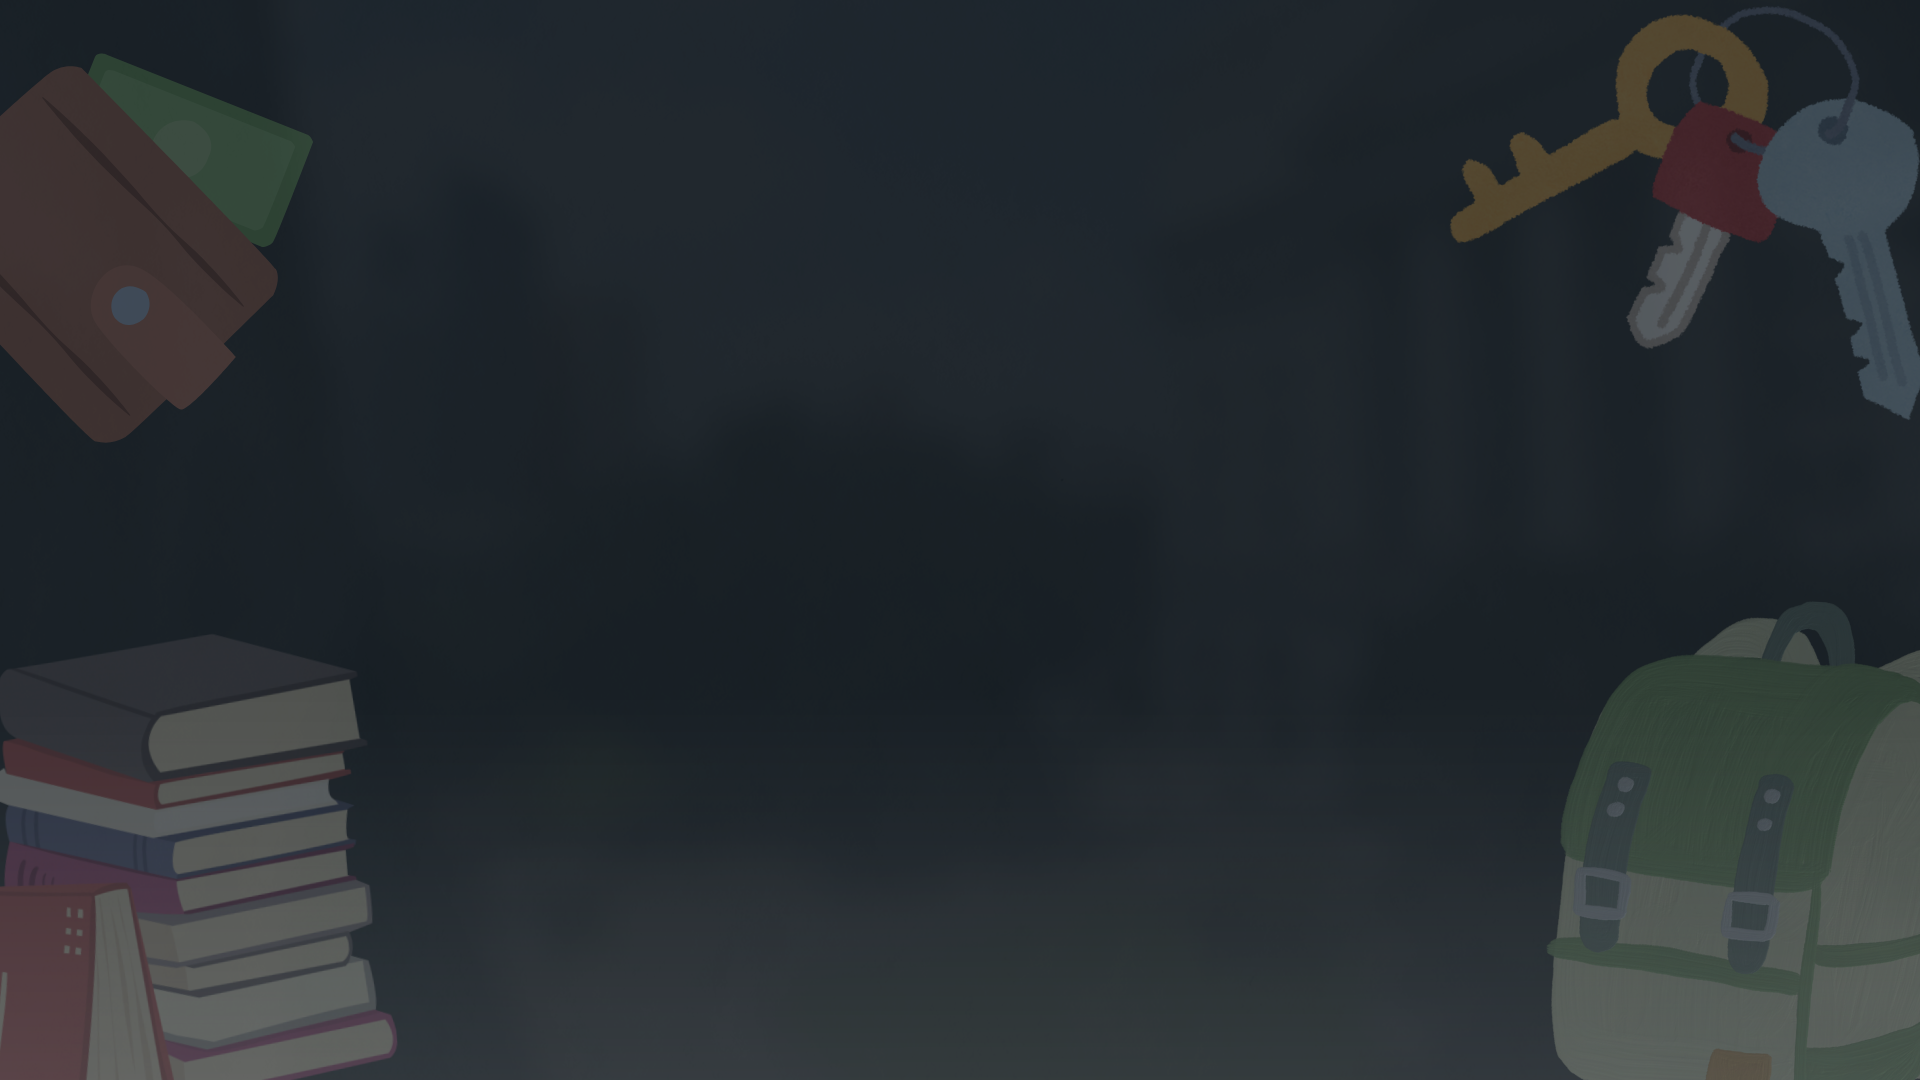
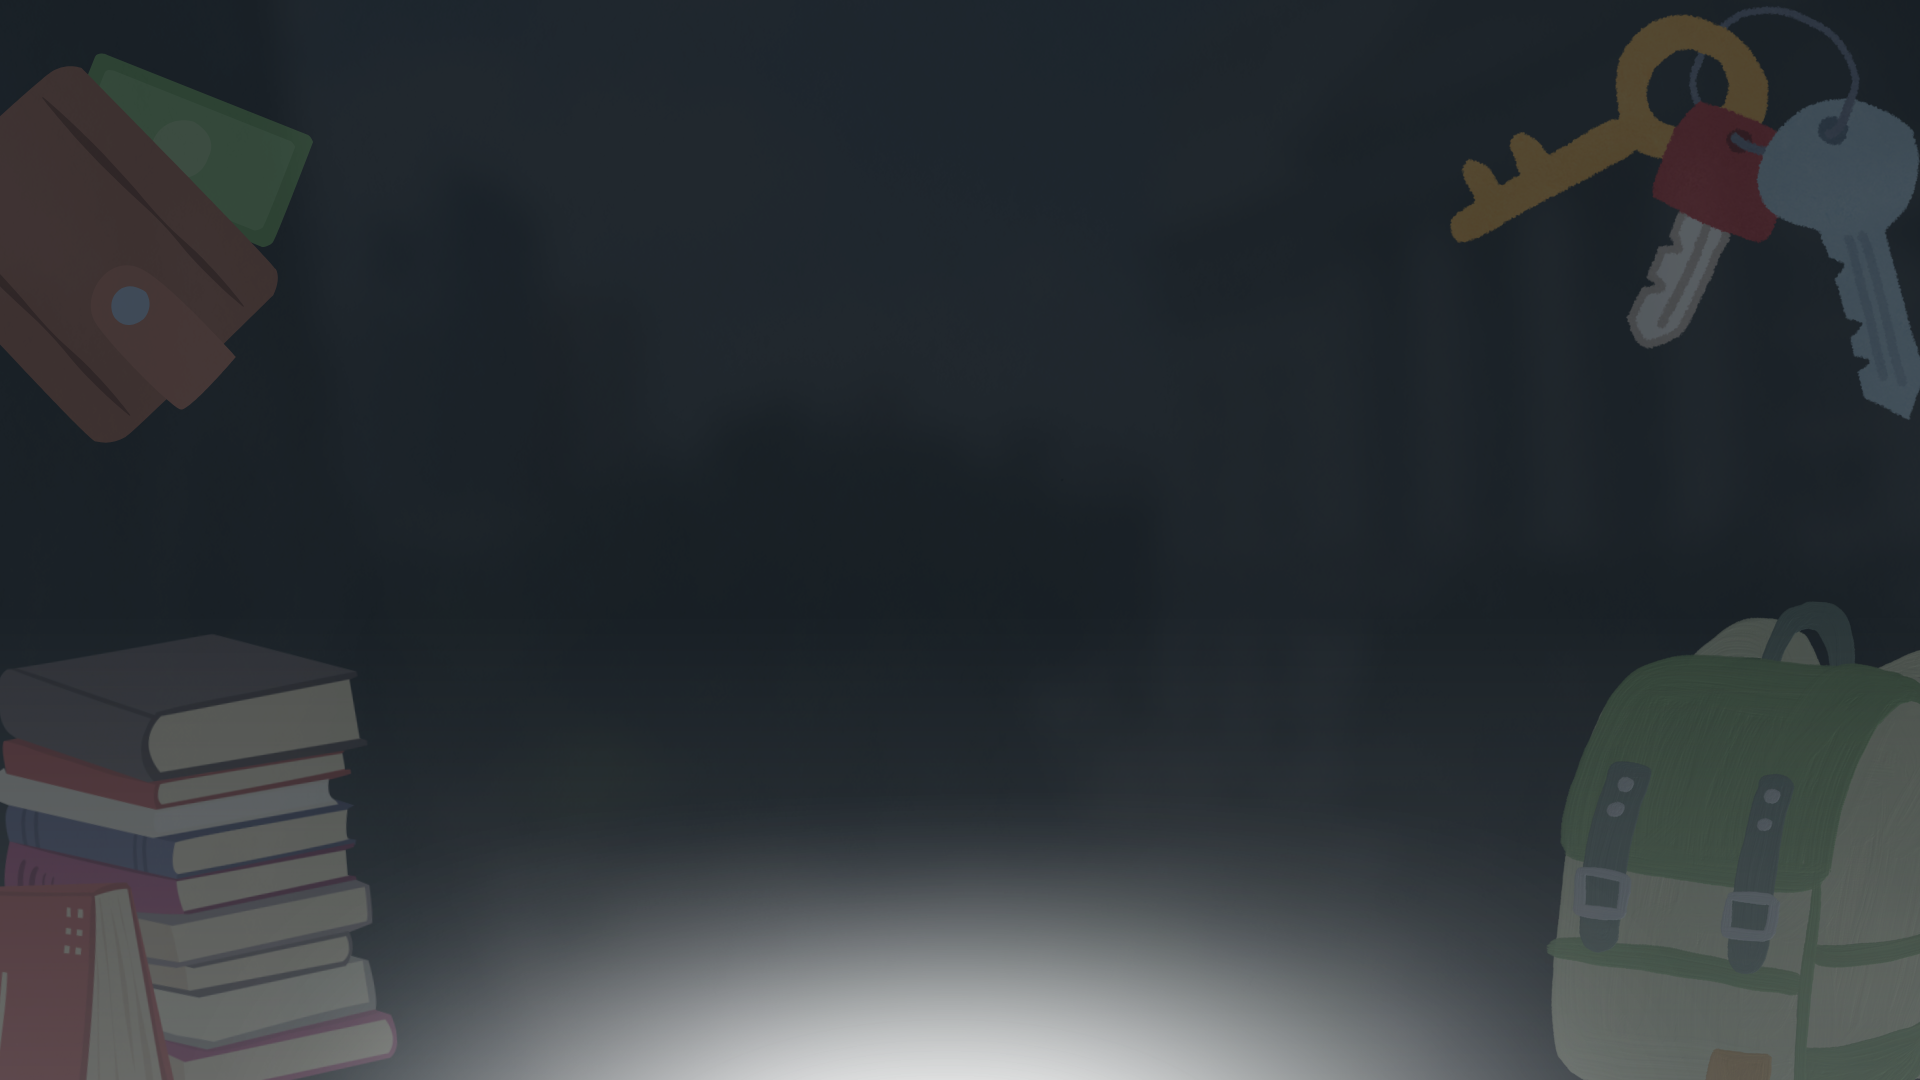
updated mobile view to a few pages

Changed region(s): [[0.1562, 0.7944, 0.8125, 1.0]]

diff --git a/styles/student_item-view.css b/styles/student_item-view.css
@@ -8,6 +8,7 @@
 }
 
 .itemview-sidebar {
+    position: fixed;
     width: 20%;
     padding: var(--space-medium);
     display: flex;
@@ -18,11 +19,11 @@
 .report-btn {
     width: 100%;
     background-color: var(--color-primary);
-    color: white;
+    color: var(--color-complement);
     border: none;
     border-radius: var(--radius-medium);
     padding: var(--space-small);
-    font-size: var(--text-body);
+    font-size: var(--text-btn);
     cursor: pointer;
     transition: 0.2s ease;
 }
@@ -40,6 +41,7 @@
 
 .itemview-main {
     width: 80%;
+    margin-left: 20%; 
     padding: var(--space-medium);
     display: flex;
     flex-direction: column;
@@ -65,6 +67,7 @@
     padding: var(--space-small);
     border-radius: var(--radius-small);
     border: 1px solid var(--color-primary-dark);
+    background-color: var(--color-complement);
 }
 
 .item-list {
@@ -95,4 +98,51 @@
     width: 30px;
     height: 30px;
     border-radius: 50%;
+}
+
+@media (max-width: 768px) {
+    .itemview-sidebar {
+        position: fixed;
+        
+        z-index: 8;
+    }
+
+    .itemview-main {
+        width: 100%;
+        margin-top: 200px;
+        margin-left: 0;
+    }
+
+    .itemview-controls {
+        position: fixed;
+        width: 93%;
+        z-index: 8;
+    }
+
+    .item-list {
+        margin-top: 100px;
+    }
+
+    .itemview-wrapper {
+        flex-direction: column;
+        padding-top: 0;
+    }
+
+    .itemview-sidebar,
+    .itemview-main {
+        width: 100%;
+    }
+
+    .itemview-sidebar {
+        flex-direction: row;
+
+    }
+    .itemview-controls {
+        display: grid;
+        grid-template-columns: 1fr 1fr;
+    }
+
+    .itemview-controls input[type="text"] {
+        grid-column: 1 / -1;
+    }
 }

diff --git a/student_about.html b/student_about.html
@@ -152,18 +152,19 @@
     <!-- MISSION / VISION -->
     <section class="mission-vision">
         <div class="mission-box">
-            <h2>Mission Statement</h2>
+            <h2>Mission</h2>
             <p>
-                Lorem ipsum dolor sit amet, consectetur
-                adipiscing elit.
+                To provide a secure and user-friendly platform that streamlines lost-and-found processes,
+                empowers students and staff to work together, and ensures that misplaced belongings can be
+                reported, tracked, and returned efficiently.
             </p>
         </div>
 
         <div class="vision-box">
-            <h2>Vision Statement</h2>
+            <h2>Vision</h2>
             <p>
-                Lorem ipsum dolor sit amet, consectetur
-                adipiscing elit.
+                To become the trusted digital bridge that reconnects people with their belongings while
+                fostering a culture of honesty, responsibility, and cooperation within the DLSU community.
             </p>
         </div>
     </section>

diff --git a/styles/global.css b/styles/global.css
@@ -11,6 +11,7 @@
     --color-complement: #ffffff;
     --color-navbar: #f9f7d2;
     --color-navbar-hover: #d4d2aa;
+    --color-required: #ffe08a;
 
     /***** Typography *****/
     --font-base: "DM Sans", sans-serif;
@@ -68,6 +69,7 @@
     --color-navbar: #080e14;
     --color-navbar-hover: #101b27;
     --color-complement: #000000;
+    --color-required: #8d732c;
 
     /**************** BACKGROUND IMAGES (DARK MODE) ****************/
     --BACKGROUND-login: url('BACKGROUNDS/LoginDark.png');
@@ -198,4 +200,15 @@ footer {
         background-color: color-mix(in srgb, color-mix(in srgb, #808080, 50% var(--color-primary-dark)) 20%, transparent);
         margin-bottom: var(--space-tiny);
     }
+}
+
+/* for input boxes */
+input[type="text"], .input-box, textarea {
+    background-color: var(--color-complement);
+}
+
+input[type="text"]::placeholder, 
+input.input-box::placeholder, 
+.input-box input::placeholder {
+    color: color-mix(in srgb, var(--color-primary) 60%, transparent);
 }

diff --git a/student_item-view.html b/student_item-view.html
@@ -105,7 +105,7 @@
     <div class="itemview-wrapper">
         <aside class="itemview-sidebar">
             <button class="report-btn" onclick="location.href='student_report-item.html'">
-                REPORT YOUR LOST ITEM
+                Report Your Lost Item
             </button>
 
             <div class="stats-box">
@@ -133,6 +133,16 @@
             </div>
 
             <div class="item-list">
+                <a href="students_claim-form.html" class="item-card"></a>
+                <a href="students_claim-form.html" class="item-card"></a>
+                <a href="students_claim-form.html" class="item-card"></a>
+                <a href="students_claim-form.html" class="item-card"></a>
+                <a href="students_claim-form.html" class="item-card"></a>
+                <a href="students_claim-form.html" class="item-card"></a>
+                <a href="students_claim-form.html" class="item-card"></a>
+                <a href="students_claim-form.html" class="item-card"></a>
+                <a href="students_claim-form.html" class="item-card"></a>
+                <a href="students_claim-form.html" class="item-card"></a>
                 <a href="students_claim-form.html" class="item-card"></a>
                 <a href="students_claim-form.html" class="item-card"></a>
                 <a href="students_claim-form.html" class="item-card"></a>

diff --git a/styles/student_report-item.css b/styles/student_report-item.css
@@ -8,7 +8,7 @@
 
 .form-title {
     text-align: left;
-    margin-bottom: var(--space-large);
+    margin-bottom: var(--space-medium);
     font-size: var(--text-btn);
     font-weight: 800;
 }
@@ -40,7 +40,7 @@
 }
 
 .required {
-    background-color: #ffe08a;
+    background-color: var(--color-required);
     padding: 2px 6px;
     border-radius: 6px;
     font-size: 0.75rem;
@@ -89,7 +89,7 @@
     width: 100%;
 
     background-color: var(--color-primary);
-    color: white;
+    color: var(--color-complement);
 
     border: none;
     border-radius: var(--radius-medium);
@@ -107,7 +107,6 @@
 
 
 @media(max-width: 900px) {
-
     .surrender-form {
         grid-template-columns: 1fr;
     }

diff --git a/styles/student_surrender-form.css b/styles/student_surrender-form.css
@@ -8,7 +8,7 @@
 
 .form-title {
     text-align: left;
-    margin-bottom: var(--space-large);
+   margin-bottom: var(--space-medium);
     font-size: var(--text-btn);
     font-weight: 800;
 }
@@ -40,7 +40,7 @@
 }
 
 .required {
-    background-color: #ffe08a;
+    background-color: var(--color-required);
     padding: 2px 6px;
     border-radius: 6px;
     font-size: 0.75rem;
@@ -89,7 +89,7 @@
     width: 100%;
 
     background-color: var(--color-primary);
-    color: white;
+    color: var(--color-complement);
 
     border: none;
     border-radius: var(--radius-medium);

diff --git a/styles/student_claim-form.css b/styles/student_claim-form.css
@@ -68,7 +68,7 @@
     align-self: center;
 
     background-color: var(--color-primary);
-    color: white;
+    color: var(--color-complement);
 
     border: none;
     border-radius: var(--radius-medium);
@@ -84,7 +84,7 @@
 .report-btn{
     width: 100%;
     background-color: var(--color-primary);
-    color: white;
+    color: var(--color-complement);
     border: none;
     border-radius: var(--radius-medium);
     padding: var(--space-small);

diff --git a/styles/student_manage-account.css b/styles/student_manage-account.css
@@ -97,7 +97,7 @@
 
 .save-btn{
     background-color: var(--color-primary);
-    color: white;
+    color: var(--color-complement);
 
     border: none;
     padding: var(--space-small);
@@ -114,7 +114,7 @@
 
 .disable-btn{
     background-color: #d9534f;
-    color: white;
+    color: var(--color-complement);
 
     border: none;
     padding: var(--space-small);

diff --git a/styles/admin_manage-student.css b/styles/admin_manage-student.css
@@ -112,7 +112,7 @@
 .remove-btn{
     border: none;
     background: #d9534f;
-    color: white;
+    color: var(--color-complement);
 
     padding: 12px 20px;
     border-radius: var(--radius-small);

diff --git a/styles/staffadmin_lists.css b/styles/staffadmin_lists.css
@@ -27,7 +27,7 @@
 
 /* design the buttons */
 .SortBtn , #closePanelBtn, .close{
-    color: white;
+    color: var(--color-complement);
     background-color: var(--color-primary);
     border: none;
     border-radius: var(--radius-small);